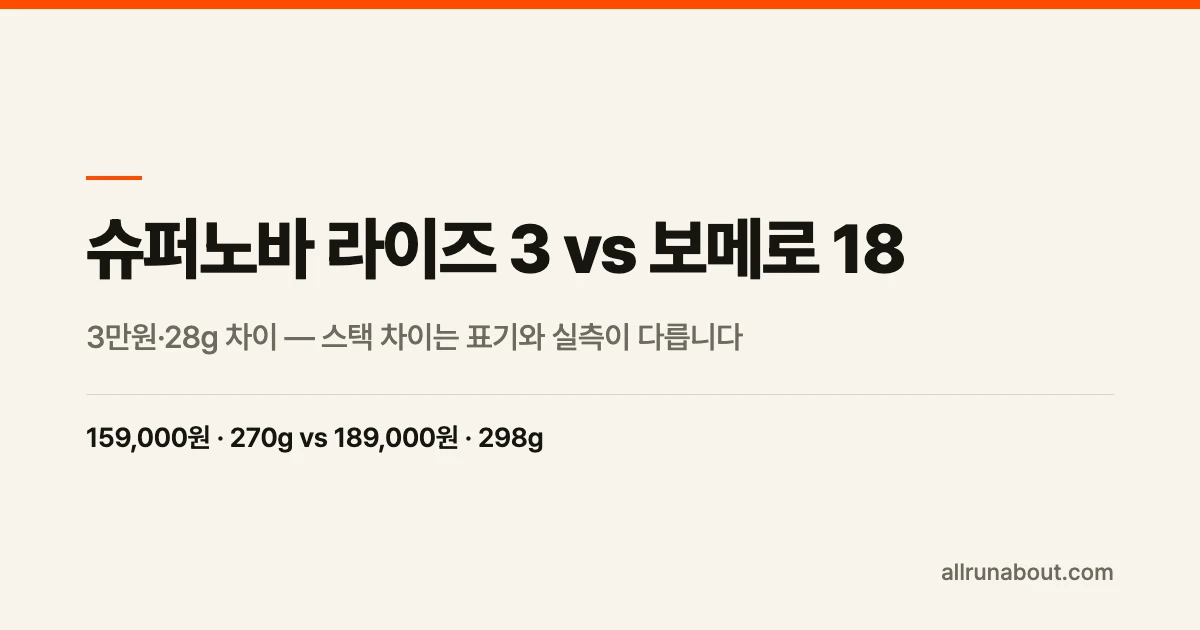
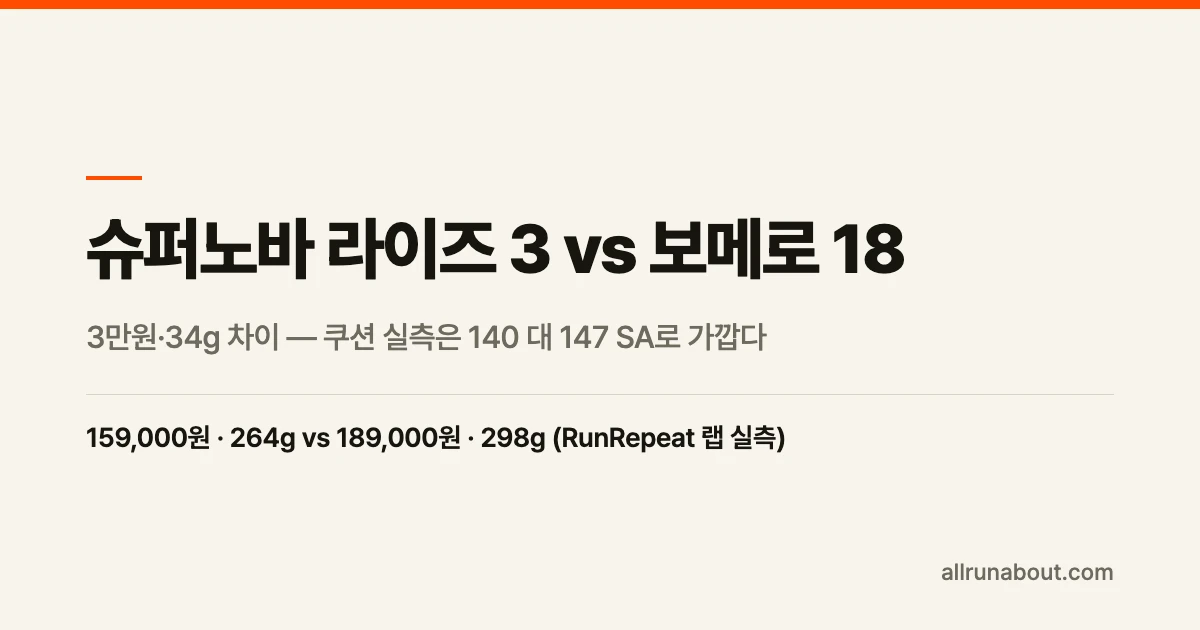
fix(shoes): 슈퍼노바 라이즈 3 RunRepeat 랩 실측 반영 — 토박스 68.4→74.5mm·무게 270→264g·스택 37/29→36/28 + 오류 비교 문장 정정, 비교글 개정
RunRepeat 라이즈 3 페이지(2026-08-06 갱신) 원문 HTML 대조:
- 토박스 74.5mm(평균 73.2) — DB 68.4 는 출처 불명·틀림. 발볼 넓은 러너 비추천/와이드 필수 서술 제거
- 무게 264g(브랜드 남성 표기와 랩 일치), 스택 브랜드 36/28·랩 35.0/27.2, 드롭 7.8
- SA 140/112, 에너지 리턴 58.8/62.8, 폼 28.6AC, 아웃솔 마모 0.8mm, 힐 패딩 내구 1/5
- DB 안의 잘못된 비교 문장 정정: '클리프톤 10(225g)보다 45g 무겁다'(DB 275g), '클리프톤보다 스택 3mm 높다'(DB 44mm), '169,000원'(정가 159,000)
- 비교글: 표기 대 실측 → 같은 랩 실측 나란히 비교로 전면 개정. 결론 일부 뒤집힘(앞발 공간은 라이즈 3가 넓음)
- 국내 다른 글의 옛 값은 이번 범위 밖(별도 승인 대기)

Changed region(s): [[0.185, 0.6635, 0.6783, 0.7238], [0.1233, 0.5127, 0.6475, 0.573]]

diff --git a/src/lib/data/blog/posts/2026-09.ts b/src/lib/data/blog/posts/2026-09.ts
@@ -5,12 +5,13 @@ export const posts_2026_09: BlogPost[] = [
     id: 'adidas-supernova-rise-3-vs-nike-vomero-18-cushion-2026',
     slug: 'adidas-supernova-rise-3-vs-nike-vomero-18-cushion-2026',
     title:
-      '슈퍼노바 라이즈 3 vs 보메로 18 | 3만원·28g 차이 — 스택 차이는 표기와 실측이 다릅니다',
+      '슈퍼노바 라이즈 3 vs 보메로 18 | 3만원·34g 차이 — 쿠션 실측은 140 대 147 SA, 진짜 차이는 뒤꿈치와 드롭',
     description:
-      '아디다스 슈퍼노바 라이즈 3(159,000원)와 나이키 보메로 18(189,000원)은 둘 다 카본 없는 쿠션 데일리입니다. 3만원과 28g 차이가 무엇을 사는지, 공식 스택 표기(37/29mm vs 46/36mm)가 보메로의 랩 실측(43/29mm)과 어떻게 다른지, 발볼과 와이드 옵션까지 정리했습니다.',
+      '아디다스 슈퍼노바 라이즈 3(159,000원)와 나이키 보메로 18(189,000원)을 같은 랩(RunRepeat) 실측으로 나란히 놓았습니다. 뒤꿈치 충격흡수는 140 대 147 SA로 가깝고, 갈리는 건 뒤꿈치 스택(35.0 대 42.5mm)과 드롭(7.8 대 13.9mm), 그리고 토박스(74.5 대 69.6mm)입니다.',
     thumbnail: '/images/blog/adidas-supernova-rise-3-vs-nike-vomero-18-cushion-2026.webp',
     author: '산초 에디터',
     publishedAt: '2026-09-29',
+    updatedAt: '2026-09-29',
     category: 'review' as const,
     readingTime: 8,
     tags: ['슈퍼노바 라이즈 3', '보메로 18', '아디다스 쿠션화', '나이키 쿠션화', '러닝화 비교', '슈퍼노바 라이즈 3 vs 보메로 18', '무릎 보호 러닝화', '발볼 넓은 러닝화'],
@@ -18,31 +19,31 @@ export const posts_2026_09: BlogPost[] = [
       {
         question: '슈퍼노바 라이즈 3와 보메로 18 중 더 푹신한 건 어느 쪽인가요?',
         answer:
-          '사이트 DB의 쿠셔닝 점수는 보메로 18이 10, 라이즈 3가 9입니다. 다만 보메로 18은 랩 실측(충격흡수·에너지 리턴)이 있고 라이즈 3는 같은 기준의 실측이 DB에 없어서, 두 신발의 푹신함을 같은 수치로 직접 비교하지는 못했습니다.',
+          '같은 랩(RunRepeat) 실측으로는 보메로 18이 조금 앞섭니다. 뒤꿈치 충격흡수(SA, 높을수록 많이 흡수)는 보메로 147, 라이즈 3 140이고 앞발은 116 대 112입니다. 두 신발 모두 같은 랩의 평균(뒤꿈치 131 SA)을 웃돌고, 폼의 부드러움(낮을수록 부드러움)은 오히려 라이즈 3가 28.6 AC로 보메로 18의 30.5 AC보다 낮게 나왔습니다. 체감 차이는 폼의 부드러움보다 뒤꿈치 스택 높이(35.0 대 42.5mm)에서 옵니다.',
       },
       {
         question: '발볼이 넓으면 어느 쪽을 골라야 하나요?',
         answer:
-          '한국 공식몰에서 보메로 18은 남녀 와이드가 판매됩니다(2026-09-29 확인). 라이즈 3는 DB 기준 와이드 옵션이 확인되지 않았습니다. 두 신발의 표준 토박스는 DB 기준 68.4mm와 69.6mm로 표준 범위(68~75mm) 하단에 붙어 있어, 발볼이 넓다면 와이드를 고를 수 있는 보메로 18 쪽이 선택지가 넓습니다.',
+          '표준 사이즈 토박스 실측은 라이즈 3가 74.5mm(같은 랩 평균 73.2mm), 보메로 18이 69.6mm입니다. 앞발 공간은 라이즈 3가 5mm 더 넉넉합니다. 다만 보메로 18은 한국 공식몰에서 남녀 와이드가 판매되어(2026-09-29 확인) 표준이 좁아도 대응할 수 있고, 라이즈 3의 와이드 옵션 여부는 확인하지 못했습니다.',
+      },
+      {
+        question: '뒤꿈치로 착지하는데 어느 쪽이 맞나요?',
+        answer:
+          '같은 랩의 착지 유형 분류로는 보메로 18이 뒤꿈치 착지, 라이즈 3가 미드풋·포어풋 착지 신발입니다. 뒤꿈치 스택과 드롭이 높은 보메로 18은 뒤꿈치 착지에서 쿠션량을 더 쓰는 구조이고, 드롭이 7.8mm로 낮은 라이즈 3는 미드풋 착지에 어울립니다.',
       },
       {
         question: '가격 차이 3만원은 값어치가 있나요?',
         answer:
-          'DB 기준 내구성은 둘 다 650km로 잡혀 있어 km당 비용은 라이즈 3 약 245원, 보메로 18 약 291원입니다. 3만원은 스택 표기 9mm 차이와 28g 무게 차이, 와이드 옵션 여부를 사는 값입니다. 내구성 수치는 둘 다 추정 성격이라, 아웃솔 마모를 실측한 자료가 나오기 전까지는 참고용입니다.',
-      },
-      {
-        question: '빠르게 달리기에는 어느 쪽이 나은가요?',
-        answer:
-          '둘 다 카본 플레이트가 없는 쿠션 중심 신발입니다. DB의 반발 점수는 라이즈 3가 7, 보메로 18이 6이고 무게는 라이즈 3가 28g 가볍습니다. 5분/km 이하 페이스를 자주 달린다면 두 신발 모두 최적은 아니며, 이 글의 비교 범위는 편한 페이스의 장거리 훈련입니다.',
+          '3만원(159,000원 대 189,000원)이 사는 것은 뒤꿈치 스택 7.5mm와 높은 드롭, 와이드 옵션의 선택지입니다. 반대로 라이즈 3는 34g 가볍고 폼이 더 부드러우며 에너지 리턴이 앞발 62.8%로 보메로(58.9%)보다 높게 나왔습니다. 내구성은 갈립니다. 아웃솔 마모는 라이즈 3가 0.8mm로 적지만 뒤꿈치 패딩 내구성은 1/5로 약하고, 보메로 18은 5/5입니다.',
       },
     ],
     content: `
 <div class="tldr">
   <span class="tldr-label">3줄 요약</span>
   <ul>
-    <li><strong>159,000원 대 189,000원, 270g 대 298g</strong> — <a href="/shoes/adidas-supernova-rise-3">슈퍼노바 라이즈 3</a>가 3만원 싸고 28g 가볍습니다. 둘 다 카본 플레이트 없는 쿠션 중심 신발입니다</li>
-    <li><strong>공식 스택 표기 차이(힐 9mm, 앞발 7mm)를 그대로 믿으면 안 됩니다</strong> — <a href="/shoes/nike-vomero-18">보메로 18</a>은 공식 46/36mm인데 랩 실측은 43/29mm입니다. 라이즈 3는 실측이 없어 같은 기준으로 비교하지 못합니다</li>
-    <li><strong>발볼이 넓다면 보메로 18</strong> — 한국 공식몰에서 남녀 와이드가 팔립니다. 라이즈 3는 DB 기준 와이드 옵션이 확인되지 않았습니다</li>
+    <li><strong>159,000원 대 189,000원, 실측 무게 264g 대 298g</strong> — <a href="/shoes/adidas-supernova-rise-3">슈퍼노바 라이즈 3</a>가 3만원 싸고 34g 가볍습니다(같은 랩 RunRepeat 실측). 둘 다 카본 플레이트 없는 쿠션 중심 신발입니다</li>
+    <li><strong>쿠션 실측은 생각보다 가깝습니다</strong> — 충격흡수(SA, 높을수록 많이 흡수)가 뒤꿈치 140 대 147, 앞발 112 대 116입니다. 갈리는 건 <a href="/shoes/nike-vomero-18">보메로 18</a>의 뒤꿈치 스택 42.5mm(라이즈 3 35.0mm)와 드롭 13.9mm(라이즈 3 7.8mm)입니다</li>
+    <li><strong>앞발 공간은 라이즈 3가 넓고, 와이드 선택지는 보메로 18이 있습니다</strong> — 표준 토박스가 74.5mm 대 69.6mm이고, 보메로 18은 한국 공식몰에서 남녀 와이드가 팔립니다</li>
   </ul>
 </div>
 
@@ -50,13 +51,13 @@ export const posts_2026_09: BlogPost[] = [
   <span class="callout-icon">🎯</span>
   <div class="callout-body">
     <p class="callout-title">한 줄 결론</p>
-    <p><strong>가격과 무게를 줄이고 싶다면 슈퍼노바 라이즈 3</strong>, <strong>쿠션량이 목적이고 발볼이 넓거나 뒤꿈치 착지라면 보메로 18</strong>입니다. 보메로 18을 다른 맥스쿠션과 비교한 글은 <a href="/blog/asics-megablast-vs-nike-vomero-18-max-cushion-2026">보메로 18 vs 메가블라스트</a>, 라이즈 3의 전작과 비교한 글은 <a href="/blog/adidas-supernova-rise-2-vs-3-comparison">슈퍼노바 라이즈 2 vs 3</a>에 있습니다.</p>
+    <p><strong>가격·무게·앞발 공간, 그리고 미드풋 착지라면 슈퍼노바 라이즈 3</strong>, <strong>뒤꿈치 착지에 뒤꿈치 쿠션량이 목적이거나 와이드가 필요하면 보메로 18</strong>입니다. 보메로 18을 다른 맥스쿠션과 비교한 글은 <a href="/blog/asics-megablast-vs-nike-vomero-18-max-cushion-2026">보메로 18 vs 메가블라스트</a>, 라이즈 3의 전작과 비교한 글은 <a href="/blog/adidas-supernova-rise-2-vs-3-comparison">슈퍼노바 라이즈 2 vs 3</a>에 있습니다.</p>
   </div>
 </div>
 
 <h2>두 켤레 한눈에 보기</h2>
 
-<p>아래 표의 스택·드롭은 <strong>브랜드가 밝힌 표기값</strong>이고, 표기와 랩 실측이 갈리는 부분은 표 밑에서 따로 다룹니다. 두 신발의 무게는 사이즈 기준이 서로 다를 수 있어 차이를 절대값으로 읽으면 안 됩니다.</p>
+<p>아래 표의 무게·스택·드롭·충격흡수·에너지 리턴·토박스는 <strong>두 신발 모두 같은 랩(RunRepeat)이 같은 방법으로 잰 실측값</strong>이라 나란히 읽어도 됩니다. 브랜드 표기값과는 다를 수 있습니다.</p>
 
 <table>
   <thead>
@@ -64,48 +65,49 @@ export const posts_2026_09: BlogPost[] = [
   </thead>
   <tbody>
     <tr><td>한국 정가</td><td><strong>159,000원</strong></td><td>189,000원</td></tr>
-    <tr><td>무게 (DB 표기)</td><td><strong>270g</strong></td><td>298g</td></tr>
-    <tr><td>스택 표기 (힐/앞발)</td><td>37 / 29mm</td><td>46 / 36mm</td></tr>
-    <tr><td>드롭 표기</td><td>8mm</td><td>10mm</td></tr>
-    <tr><td>미드솔</td><td>Dreamstrike+ (전작 대비 20% 부드럽고 탄성)</td><td>ZoomX + ReactX 듀얼</td></tr>
-    <tr><td>카본 플레이트</td><td>없음</td><td>없음</td></tr>
-    <tr><td>쿠셔닝 / 반발 (DB 점수)</td><td>9 / <strong>7</strong></td><td><strong>10</strong> / 6</td></tr>
-    <tr><td>토박스 (표준 사이즈)</td><td>68.4mm (표준 하단)</td><td>69.6mm (표준 하단, RunRepeat 랩)</td></tr>
-    <tr><td>와이드 옵션</td><td>DB 기준 확인 안 됨</td><td><strong>남녀 모두 판매</strong> (한국 공식몰, 2026-09-29 확인)</td></tr>
-    <tr><td>내구성 · km당 비용 (DB 추정)</td><td>650km · <strong>약 245원</strong></td><td>650km · 약 291원</td></tr>
+    <tr><td>무게 (랩 실측)</td><td><strong>264g</strong></td><td>298g</td></tr>
+    <tr><td>스택 실측 (힐/앞발)</td><td>35.0 / 27.2mm</td><td><strong>42.5</strong> / 28.6mm</td></tr>
+    <tr><td>드롭 실측</td><td>7.8mm</td><td><strong>13.9mm</strong></td></tr>
+    <tr><td>충격흡수 (힐/앞발, SA)</td><td>140 / 112</td><td><strong>147 / 116</strong></td></tr>
+    <tr><td>에너지 리턴 (힐/앞발)</td><td>58.8% / <strong>62.8%</strong></td><td>56.9% / 58.9%</td></tr>
+    <tr><td>폼 부드러움 (AC, 낮을수록 부드러움)</td><td><strong>28.6</strong></td><td>30.5</td></tr>
+    <tr><td>토박스 너비 (표준 사이즈)</td><td><strong>74.5mm</strong></td><td>69.6mm</td></tr>
+    <tr><td>와이드 옵션 (한국 공식몰)</td><td>확인 안 됨</td><td><strong>남녀 모두 판매</strong></td></tr>
+    <tr><td>아웃솔 마모 / 뒤꿈치 패딩 내구성</td><td><strong>0.8mm</strong> / 1점 (5점 만점)</td><td>1.1mm / <strong>5점</strong></td></tr>
+    <tr><td>착지 유형 (랩 분류)</td><td>미드·포어풋</td><td>뒤꿈치</td></tr>
   </tbody>
 </table>
 
-<p><small>데이터: 사이트 신발 DB(한국 공식몰 정가 기준), 보메로 18 토박스는 RunRepeat 랩. 내구성 650km는 소재 특성으로 잡은 추정값으로, 아웃솔 마모를 실측한 수치가 아닙니다.</small></p>
+<p><small>데이터: RunRepeat 랩 실측(라이즈 3 페이지 2026-08-06 갱신 · 보메로 18 랩 페이지), 한국 정가는 사이트 신발 DB, 와이드는 나이키 코리아 공식몰(2026-09-29 확인). 무게는 브랜드 표기로는 남성 기준 라이즈 3 264g, 보메로 18 325g으로 더 벌어지지만, 랩 실측은 두 신발의 시험 사이즈가 공개되지 않아 표기와 직접 대조하지 않았습니다.</small></p>
 
-<h2>슈퍼노바 라이즈 3 — 3만원 싸고 가벼운 쿠션 데일리</h2>
+<h2>슈퍼노바 라이즈 3 — 3만원 싸고 가볍고 앞발이 넓은 쿠션 데일리</h2>
 
-<p>라이즈 3는 전작 대비 힐 스택이 3mm, 앞발이 5mm 늘었고(37/29mm) Dreamstrike+ 폼이 전작보다 20% 부드럽고 탄성이 좋아졌다고 아디다스가 밝힌 모델입니다. 부상 적합성은 DB에서 족저근막·아킬레스·무릎·정강이 네 항목이 모두 최상 등급입니다. 정가가 보메로보다 3만원 낮고 km당 비용도 약 245원으로 더 낮게 잡힙니다.</p>
+<p>라이즈 3는 전작 대비 랩 실측 스택이 힐 33.5에서 35.0mm(+1.5mm), 앞발 24.0에서 27.2mm(+3.2mm)로 늘었고, 충격흡수는 힐 127에서 140 SA, 앞발 96에서 112 SA로 올랐습니다. 반대로 에너지 리턴은 앞발이 전작 69.5%에서 62.8%로 떨어졌습니다(RunRepeat). 토박스는 74.5mm로 같은 랩 평균(73.2mm)보다 넓고, RunRepeat는 이 신발의 장점으로 부피가 큰 발에도 여유 있는 핏을 꼽았습니다.</p>
 
-<p>약점은 발볼입니다. DB 표기는 표준 토박스(68.4mm)지만 중족부가 좁은 편이라고 적혀 있고, 와이드 옵션은 확인되지 않았습니다. 발볼 넓은 러너에게는 사이즈를 올려 길이로 해결해야 하는 구조일 수 있어 조심스럽습니다.</p>
+<p>약점은 세 가지입니다. 사이즈가 RunRepeat 집계에서 <strong>"약간 작게 나옴"</strong>(82표)이라 길이가 애매하면 반 사이즈 크게 시착해야 하고, 뒤꿈치 패딩 내구성이 5점 만점에 1점으로 약하며, 한국 공식몰의 와이드 옵션 여부는 확인하지 못했습니다.</p>
 
-<p><strong>✅ 이런 분께</strong> — 5~7분/km 편한 페이스로 달리며 가격을 신경 쓰는 러너, 무릎·발바닥 부담을 줄이고 싶지만 무게가 너무 무거운 것은 싫은 분.</p>
+<p><strong>✅ 이런 분께</strong> — 미드풋·포어풋 착지로 편한 페이스의 장거리를 달리는 러너, 예산과 무게를 줄이고 싶은 분, 앞발 공간이 넉넉한 신발을 찾는 분.</p>
 
-<h2>보메로 18 — 쿠션량과 와이드 선택지가 넓은 맥스 쿠션</h2>
+<h2>보메로 18 — 뒤꿈치 쿠션량과 와이드 선택지가 넓은 맥스 쿠션</h2>
 
-<p>보메로 18은 ZoomX와 ReactX를 겹친 듀얼 폼으로, 공식 표기 스택이 힐 46mm·앞발 36mm입니다. DB의 쿠셔닝 점수는 10점이고 족저근막·아킬레스·정강이가 최상, 무릎은 그다음 등급입니다. 가장 큰 차이는 발볼 대응입니다. 한국 공식몰에서 남성(IF0514)·여성(IF0515) 와이드가 판매되고 있어, 표준 토박스가 69.6mm로 하단에 있어도 넓은 발의 선택지가 있습니다.</p>
+<p>보메로 18은 랩 실측 뒤꿈치 스택이 42.5mm로 라이즈 3보다 7.5mm 높고, 드롭이 13.9mm로 6.1mm 더 큽니다. 충격흡수는 뒤꿈치 147 SA로 같은 랩 평균(131 SA)을 크게 웃돕니다. RunRepeat는 이 신발을 뒤꿈치 착지 신발로 분류합니다. 뒤꿈치 패딩 내구성이 5점 만점에 5점인 것도 라이즈 3와 갈리는 지점입니다.</p>
 
-<p>약점은 무게와 드롭입니다. 298g으로 라이즈 3보다 무겁고 랩 드롭이 14mm로 높아 미드풋·포어풋 착지 러너에게는 앞발이 낮게 느껴질 수 있습니다. 5분/km 이하 페이스에는 맞지 않는 설계입니다.</p>
+<p>약점은 무게와 앞발 공간입니다. 298g으로 라이즈 3보다 34g 무겁고 토박스는 69.6mm로 같은 랩 평균(73.2mm)보다 좁습니다. 대신 한국 공식몰에서 남성(IF0514)·여성(IF0515) 와이드가 판매되고 있어 표준 토박스가 좁은 러너는 와이드로 대응할 수 있습니다.</p>
 
-<p><strong>✅ 이런 분께</strong> — 뒤꿈치 착지로 편한 페이스의 장거리를 달리는 러너, 쿠션이 최우선이고 발볼이 넓어 와이드가 필요한 분.</p>
+<p><strong>✅ 이런 분께</strong> — 뒤꿈치로 착지하며 뒤꿈치 쿠션량이 최우선인 러너, 발이 보통~좁은 편이거나 와이드가 필요한 분.</p>
 
-<h2>스택 9mm 차이는 실측에서 달라집니다</h2>
+<h2>표기 점수와 실측이 말하는 것</h2>
 
-<p>표에서 힐 스택은 37mm 대 46mm, 앞발은 29mm 대 36mm로 큰 차이가 나 보이지만, <strong>브랜드 표기와 랩 실측은 다른 값입니다</strong>. 보메로 18은 랩 실측(RunRepeat)이 힐 43mm·앞발 29mm, 드롭 14mm로 공식 표기보다 앞발은 7mm, 힐은 3mm 낮게 나옵니다. 라이즈 3는 DB에 같은 기준의 실측이 없습니다.</p>
-
-<p>그래서 이 글은 두 신발의 스택 차이를 몇 mm라고 단정하지 않습니다. 보메로의 실측 앞발 29mm는 라이즈 3의 표기 앞발 29mm와 같은 값이지만, 서로 다른 잣대라 같다고 읽으면 안 됩니다. 다른 잣대를 같은 표에 넣어 놓고 결론을 내는 것이 스택 비교에서 가장 흔한 실수라, 라이즈 3의 랩 실측이 나오면 이 부분을 갱신하겠습니다(추정: 앞발 두께 차이는 표기 차이보다 작을 가능성이 있음).</p>
+<p>사이트 DB의 쿠셔닝 점수는 보메로 18이 10점, 라이즈 3가 9점이라 한 칸 차이로 보이지만, 실측에서 뒤꿈치 충격흡수는 147 대 140 SA로 약 5%, 앞발은 116 대 112 SA로 약 4% 차이입니다. 폼 자체는 라이즈 3가 오히려 더 부드럽고(28.6 대 30.5 AC) 에너지 리턴도 높습니다. 결국 두 신발의 쿠션 성격은 <strong>폼의 질이 아니라 뒤꿈치 스택 높이와 드롭</strong>에서 갈립니다. 앞발 스택은 27.2mm 대 28.6mm로 1.4mm 차이뿐입니다.</p>
 
 <h2>내게 맞는 건?</h2>
 
 <ul>
-  <li><strong>예산이 우선이고 무게도 신경 쓰인다</strong> → 슈퍼노바 라이즈 3 (3만원·28g 차이)</li>
-  <li><strong>발볼이 넓다</strong> → 보메로 18 와이드 (남녀 모두 판매)</li>
-  <li><strong>뒤꿈치 착지로 쿠션량이 최우선</strong> → 보메로 18 (쿠셔닝 10점)</li>
+  <li><strong>예산이 우선이고 무게도 신경 쓰인다</strong> → 슈퍼노바 라이즈 3 (3만원·34g 차이)</li>
+  <li><strong>뒤꿈치 착지에 쿠션량 최우선</strong> → 보메로 18 (뒤꿈치 스택 42.5mm)</li>
+  <li><strong>미드풋·포어풋 착지, 낮은 드롭</strong> → 슈퍼노바 라이즈 3 (드롭 7.8mm)</li>
+  <li><strong>앞발 공간이 넉넉해야 한다</strong> → 슈퍼노바 라이즈 3 (토박스 74.5mm)</li>
+  <li><strong>표준이 좁아 와이드가 필요하다</strong> → 보메로 18 와이드 (남녀 모두 판매)</li>
   <li><strong>다른 대안도 보고 싶다</strong> → <a href="/shoes/hoka-clifton-10">호카 클리프톤 10</a>, <a href="/shoes/asics-gel-nimbus-28">아식스 젤 님버스 28</a>, <a href="/shoes/hoka-bondi-9">호카 본디 9</a></li>
 </ul>
 
@@ -113,20 +115,20 @@ export const posts_2026_09: BlogPost[] = [
   <span class="callout-icon">⚠</span>
   <div class="callout-body">
     <p class="callout-title">이 글이 확인하지 못한 것</p>
-    <p>라이즈 3의 충격흡수·에너지 리턴 랩 실측은 사이트 DB에 없고, 무게의 사이즈 기준도 공식이 밝힌 값이 아닙니다. 라이즈 3의 와이드 옵션 여부는 구매 전에 한국 공식몰에서 직접 확인하세요.</p>
+    <p>라이즈 3의 한국 공식몰 와이드 옵션 여부와 두 신발의 랩 시험 사이즈는 확인하지 못했습니다. 내구성은 랩의 아웃솔 마모·패딩 측정치이고, 실제 교체 시점(km)을 뜻하지 않습니다.</p>
   </div>
 </div>
 
 <h2>자주 묻는 질문</h2>
 
 <div class="faq">
-  <div class="faq-item"><p class="faq-q">슈퍼노바 라이즈 3와 보메로 18 중 더 푹신한 건 어느 쪽인가요?</p><p class="faq-a">사이트 DB의 쿠셔닝 점수는 보메로 18이 10, 라이즈 3가 9입니다. 다만 라이즈 3는 같은 기준의 랩 실측이 없어 두 신발의 푹신함을 같은 수치로 직접 비교하지는 못했습니다.</p></div>
-  <div class="faq-item"><p class="faq-q">발볼이 넓으면 어느 쪽을 골라야 하나요?</p><p class="faq-a">한국 공식몰에서 보메로 18은 남녀 와이드가 판매됩니다(2026-09-29 확인). 라이즈 3는 DB 기준 와이드 옵션이 확인되지 않았습니다.</p></div>
-  <div class="faq-item"><p class="faq-q">가격 차이 3만원은 값어치가 있나요?</p><p class="faq-a">내구성이 DB 추정으로 둘 다 650km라면 km당 비용은 라이즈 3 약 245원, 보메로 18 약 291원입니다. 3만원은 쿠션량과 와이드 옵션의 값이고, 내구성은 아웃솔 실측이 나오기 전까지 참고용입니다.</p></div>
-  <div class="faq-item"><p class="faq-q">빠르게 달리기에는 어느 쪽이 나은가요?</p><p class="faq-a">둘 다 카본 플레이트가 없는 쿠션 중심 신발입니다. DB의 반발 점수와 무게는 라이즈 3가 앞서지만, 5분/km 이하 페이스에는 두 신발 모두 최적이 아닙니다.</p></div>
+  <div class="faq-item"><p class="faq-q">슈퍼노바 라이즈 3와 보메로 18 중 더 푹신한 건 어느 쪽인가요?</p><p class="faq-a">같은 랩 실측으로는 보메로 18이 조금 앞섭니다. 뒤꿈치 충격흡수가 147 대 140 SA, 앞발이 116 대 112 SA입니다. 폼의 부드러움은 오히려 라이즈 3(28.6 AC)가 보메로 18(30.5 AC)보다 낮게 나왔고, 체감 차이는 뒤꿈치 스택 높이(35.0 대 42.5mm)에서 옵니다.</p></div>
+  <div class="faq-item"><p class="faq-q">발볼이 넓으면 어느 쪽을 골라야 하나요?</p><p class="faq-a">표준 토박스 실측은 라이즈 3가 74.5mm, 보메로 18이 69.6mm로 라이즈 3가 5mm 넉넉합니다. 다만 보메로 18은 한국 공식몰에서 남녀 와이드가 판매되고(2026-09-29 확인), 라이즈 3의 와이드 옵션은 확인하지 못했습니다.</p></div>
+  <div class="faq-item"><p class="faq-q">뒤꿈치로 착지하는데 어느 쪽이 맞나요?</p><p class="faq-a">같은 랩의 분류로 보메로 18이 뒤꿈치 착지, 라이즈 3가 미드·포어풋 착지 신발입니다. 뒤꿈치 스택과 드롭이 높은 보메로 18이 뒤꿈치 착지에서 쿠션량을 더 씁니다.</p></div>
+  <div class="faq-item"><p class="faq-q">가격 차이 3만원은 값어치가 있나요?</p><p class="faq-a">3만원은 뒤꿈치 스택 7.5mm와 높은 드롭, 와이드 선택지, 5점 만점의 뒤꿈치 패딩 내구성을 사는 값입니다. 라이즈 3는 34g 가볍고 에너지 리턴이 앞발 62.8%로 더 높지만 뒤꿈치 패딩 내구성은 1점으로 약합니다.</p></div>
 </div>
 
-<p><small>출처: 사이트 신발 DB(한국 공식몰 정가) · RunRepeat 랩 데이터(보메로 18 토박스·스택·드롭) · 나이키 코리아 공식몰(보메로 18 와이드, 2026-09-29 확인) · 아디다스 표기(라이즈 3 스택·폼). 작성 2026년 9월 29일.</small></p>
+<p><small>출처: RunRepeat 랩 데이터(라이즈 3 · 보메로 18, 무게·스택·드롭·충격흡수·에너지 리턴·폼 부드러움·토박스·내구성·착지 유형) · 사이즈 평가는 RunRepeat 집계(82표) · 사이트 신발 DB(한국 정가) · 나이키 코리아 공식몰(보메로 18 와이드, 2026-09-29 확인). 작성 2026년 9월 29일 · 랩 실측 반영 개정 2026년 9월 29일.</small></p>
 `,
   },
   {
@@ -3553,7 +3555,7 @@ export const posts_2026_09: BlogPost[] = [
     <tr><td><a href="/shoes/brooks-ghost-17">브룩스 고스트 17</a></td><td>169,000원</td><td>289g</td><td>약 211원</td><td>표준</td><td>있음</td></tr>
     <tr><td><a href="/shoes/brooks-ghost-18">브룩스 고스트 18</a></td><td>169,000원</td><td>289g</td><td>약 211원</td><td>표준</td><td>있음</td></tr>
     <tr><td><a href="/shoes/mizuno-wave-rider-29">미즈노 웨이브 라이더 29</a></td><td>169,000원</td><td>258g</td><td>약 211원</td><td>표준</td><td>있음</td></tr>
-    <tr><td><a href="/shoes/adidas-supernova-rise-3">아디다스 슈퍼노바 라이즈 3</a></td><td>159,000원</td><td>270g</td><td>약 245원</td><td>표준</td><td>없음</td></tr>
+    <tr><td><a href="/shoes/adidas-supernova-rise-3">아디다스 슈퍼노바 라이즈 3</a></td><td>159,000원</td><td>264g</td><td>약 245원</td><td>표준</td><td>없음</td></tr>
     <tr><td><a href="/shoes/adidas-supernova-rise-2">아디다스 슈퍼노바 라이즈 2</a></td><td>149,000원</td><td>257g</td><td>약 248원</td><td>넓음</td><td>있음</td></tr>
     <tr><td><a href="/shoes/saucony-ride-18">사코니 라이드 18</a></td><td>159,000원</td><td>255g</td><td>약 265원</td><td>표준</td><td>있음</td></tr>
     <tr><td><a href="/shoes/saucony-guide-18">사코니 가이드 18</a> <span style="color:#0284c7;">안정화</span></td><td>159,000원</td><td>272g</td><td>약 265원</td><td>표준</td><td>있음</td></tr>

diff --git a/src/lib/data/shoes/adidas/adidas-supernova-rise-3.ts b/src/lib/data/shoes/adidas/adidas-supernova-rise-3.ts
@@ -10,12 +10,12 @@ export const shoe: Shoe = {
   category: '쿠션화',
   rating: 5,
   price: 159000,
-  description: 'Dreamstrike+ 폼이 20% 더 부드럽고 탄력 있게 업그레이드된 Adidas의 프리미엄 쿠션화. 힐 37mm, 포어풋 29mm의 넉넉한 스택으로 장거리 러너와 무릎 보호가 필요한 러너에게 최적.',
-  oneliner: 'Dreamstrike+ 20% 업그레이드, 37mm 스택의 쿠션 중심 데일리',
-  editorComment: '전작보다 힐 스택이 3mm, 포어풋은 5mm 증가하며 Dreamstrike+ 폼이 20% 부드러워진 것이 가장 큰 변화입니다. 270g 무게는 Hoka Clifton 10(225g)보다 45g 무겁지만 9/10 쿠셔닝 점수로 장거리에서 강점을 보입니다. 토박스 너비가 68.4mm(standard)로 발볼 넓은 러너는 와이드 버전이 필수이며, 와이드 옵션이 없는 점이 아쉽습니다. 650km 내구성으로 km당 약 245원이며, 클리프톤보다 2만원 저렴하면서 스택이 3mm 더 높아 무릎 보호에 유리합니다.\n\n사이즈·구매 가이드: 토박스가 standard 폭(68.4mm)이고 와이드 옵션이 없어, 발볼 넓은 러너는 반드시 매장에서 시착 후 구매하세요. 정가 159,000원에 내구성 650km 기준 km당 약 245원으로 쿠션화 중 최고 가성비입니다. 와이드 옵션이 필요하다면 클리프톤 10, 더 높은 반발력을 원하면 노바블라스트 5가 대안입니다.',
+  description: 'Dreamstrike+ 폼이 20% 더 부드럽고 탄력 있게 업그레이드된 Adidas의 프리미엄 쿠션화. 브랜드 표기 힐 36mm·포어풋 28mm(RunRepeat 랩 실측 35.0/27.2mm)의 스택으로 장거리 러너와 무릎 보호가 필요한 러너에게 최적.',
+  oneliner: 'Dreamstrike+ 20% 업그레이드, 36mm 스택의 쿠션 중심 데일리',
+  editorComment: '전작 대비 랩 실측 스택이 힐 +1.5mm(33.5→35.0), 앞발 +3.2mm(24.0→27.2) 늘고 Dreamstrike+ 폼이 20% 부드러워진 것이 가장 큰 변화입니다(RunRepeat). 무게는 랩 실측 264g이고, 충격흡수는 힐 140 SA·앞발 112 SA로 전작(127/96 SA)보다 높지만 에너지 리턴은 힐 58.8%·앞발 62.8%로 전작 앞발 69.5%보다 낮아졌습니다. 토박스는 RunRepeat 랩 74.5mm(평균 73.2mm)로 표준 범위 상단이라 넉넉한 편이고, RunRepeat 집계의 사이즈 평가는 "약간 작게 나옴"(82표)입니다. 와이드 옵션 여부는 확인하지 못했습니다. 650km 내구성(추정) 기준 km당 약 245원입니다.\n\n사이즈·구매 가이드: 정가 159,000원으로 클리프톤 10(199,000원)보다 4만원 낮습니다. 길이가 애매하면 반 사이즈 크게 시착해 보고, 반발이 더 필요하다면 노바블라스트 5가 대안입니다.',
   tags: ['쿠션화', '장거리', '입문화', '무릎 보호'],
   specs: {
-    weight: 270,
+    weight: 264,
     cushioning: 9,
     responsiveness: 7,
     stability: 7,
@@ -23,7 +23,7 @@ export const shoe: Shoe = {
     durability: 650,
   },
   biomechanics: {
-    stackHeight: { heel: 37, forefoot: 29 },
+    stackHeight: { heel: 36, forefoot: 28 },
     drop: 8,
     carbonPlate: false,
     plateType: null,
@@ -45,9 +45,9 @@ export const shoe: Shoe = {
   },
   targetUsers: {
     recommended: ['장거리 러너', '쿠션 중시', '무릎/관절 보호', '데일리 러닝', '편안함 추구'],
-    notRecommended: ['스피드 러닝', '안정성 필요', '발볼 넓은 러너', '과내전'],
+    notRecommended: ['스피드 러닝', '안정성 필요', '과내전'],
   },
-  features: ['Dreamstrike+ 20% 업그레이드', '37mm 힐 스택', 'PRIMEWEAVE 어퍼', '거셋 텅', '풀 아웃솔 커버리지'],
+  features: ['Dreamstrike+ 20% 업그레이드', '36mm 힐 스택', 'PRIMEWEAVE 어퍼', '거셋 텅', '풀 아웃솔 커버리지'],
   priceAnalysis: {
     msrp: 159000,
     streetPrice: 145000,
@@ -57,15 +57,15 @@ export const shoe: Shoe = {
     alternatives: ['hoka-clifton-10', 'asics-novablast-5', 'nike-pegasus-premium'],
   },
   detailedSpecs: {
-    weight: '270g (US 9 기준)',
-    stackHeight: '힐 37mm / 포어풋 29mm (v2 대비 +3mm/+5mm)',
-    drop: '8mm',
+    weight: '264g (남성 · 브랜드 표기와 RunRepeat 랩 실측 일치)',
+    stackHeight: '힐 36mm / 포어풋 28mm (브랜드 표기) · 힐 35.0mm / 포어풋 27.2mm (RunRepeat 랩) · 전작 대비 랩 실측 +1.5mm / +3.2mm',
+    drop: '8mm (브랜드 표기) · 7.8mm (RunRepeat 랩)',
     midsole: 'Dreamstrike+ (Supercritical EVA, 20% softer/bouncier)',
     plate: '없음',
     outsole: 'Adiwear 러버 (풀 커버리지)',
     upper: 'PRIMEWEAVE 소프트 메쉬',
-    width: '표준 (중족부 좁음)',
-    durability: '600-650km',
+    width: '표준 상단 — RunRepeat 랩 토박스 74.5mm(평균 73.2mm), 사이즈는 약간 작게 나옴(82표)',
+    durability: '600-650km (추정) · RunRepeat 랩 아웃솔 마모 0.8mm(평균 1.1mm) · 힐 패딩 내구성 1/5(약함)',
     price: '₩159,000 (MSRP)',
     costPerKm: '약 ₩245/km (650km 기준)',
     footType: '중립 발 (안정성 필요시 비추)',
@@ -75,28 +75,28 @@ export const shoe: Shoe = {
     {
       userType: '에디터 분석',
       rating: 88,
-      text: 'Rise 3는 전작 대비 힐 +3mm, 포어풋 +5mm 스택 증가와 함께 Dreamstrike+ 폼이 20% 더 부드럽고 탄력있게 업그레이드되었습니다. PRIMEWEAVE 어퍼는 극도로 플러시하고 편안하며, 완전 거셋 텅과 구조화된 힐 카운터로 탁월한 풋홀드를 제공합니다. 아웃솔은 거의 전체 커버리지로 뛰어난 그립과 내구성을 자랑합니다. 8mm 드롭임에도 미드풋 착지를 유도하는 특이한 설계가 인상적입니다. 다만 중족부 핏이 좁아 발볼 넓은 러너는 와이드 버전 출시를 기다려야 하고, 쿠셔닝 대비 다소 무거운 편(270g)입니다. 안정성은 전혀 없어 완전 중립 러너만 추천합니다. 37mm 힐 스택이 무릎 보호에 좋고, 와이드 옵션은 없지만 발볼 넓은 한국 러너도 토박스 자체는 넓어 기본 핏으로 가능할 수 있습니다. 650km 기준 km당 약 245원 가성비는 쿠션화 중 최상위입니다.',
+      text: 'Rise 3는 전작 대비 랩 실측 힐 +1.5mm, 포어풋 +3.2mm 스택 증가와 함께 Dreamstrike+ 폼이 20% 더 부드럽고 탄력있게 업그레이드되었습니다. PRIMEWEAVE 어퍼는 극도로 플러시하고 편안하며, 완전 거셋 텅과 구조화된 힐 카운터로 탁월한 풋홀드를 제공합니다. 아웃솔은 거의 전체 커버리지로 뛰어난 그립과 내구성을 자랑합니다. 8mm 드롭임에도 미드풋 착지를 유도하는 특이한 설계가 인상적입니다. 무게는 랩 실측 264g입니다. 안정성은 전혀 없어 완전 중립 러너만 추천합니다. 힐 36mm 스택이 무릎 보호에 좋고, 토박스는 RunRepeat 랩 74.5mm로 표준 상단이라 발볼이 넓은 한국 러너도 기본 핏이 맞을 가능성이 있습니다. 와이드 옵션 여부는 확인하지 못했습니다. 650km 기준 km당 약 245원 가성비는 쿠션화 중 최상위입니다.',
     },
     {
         userType: '예상 적합 — 월 150km 이상 장거리 위주',
-        text: '주행거리를 많이 쌓는 장거리 위주 러너에게 맞는 데일리 쿠션화입니다. 힐 37mm 스택에 Dreamstrike+ 폼으로, 전작 Rise 2에서 30km 이후 쿠션이 주저앉던 구간이 개선된 것이 세대 차이의 핵심입니다. PRIMEWEAVE 어퍼라 통기성이 좋아 여름철 장시간 착용에도 유리합니다. 270g으로 무거운 편이라 속도 훈련에는 불리하지만, 충격 흡수를 우선하는 용도에서는 단점이 덜합니다. 내구성 650km 기준 km당 약 245원으로 운용 비용이 낮습니다. 와이드 옵션이 없고 아치 지지도 강한 편이 아니라, 평발 성향이 뚜렷하면 안정화 계열을 검토하세요.',
+        text: '주행거리를 많이 쌓는 장거리 위주 러너에게 맞는 데일리 쿠션화입니다. 힐 36mm 스택에 Dreamstrike+ 폼으로, 전작 Rise 2에서 30km 이후 쿠션이 주저앉던 구간이 개선된 것이 세대 차이의 핵심입니다. PRIMEWEAVE 어퍼라 통기성이 좋아 여름철 장시간 착용에도 유리합니다. 264g으로 가벼운 편은 아니라 속도 훈련에는 불리하지만, 충격 흡수를 우선하는 용도에서는 단점이 덜합니다. 내구성 650km 기준 km당 약 245원으로 운용 비용이 낮습니다. 아치 지지가 강한 편이 아니라, 평발 성향이 뚜렷하면 안정화 계열을 검토하세요.',
       },
     {
         userType: '예상 적합 — 휴식 후 복귀 단계의 저강도 러닝',
-        text: '쉬었다가 다시 거리를 쌓기 시작하는 단계처럼, 충격 완화를 우선하며 저강도로 달리는 용도에 맞습니다. 힐 37mm 스택에 8mm 드롭이라 뒤꿈치 착지에서 부담이 적습니다. 같은 목적으로 자주 비교되는 클리프톤 10과 견주면 가격이 2만원가량 낮으면서 힐 스택은 3mm 높아, 쿠션량 기준으로는 비용 효율이 좋은 선택입니다. 270g으로 무거운 편이라 속도 훈련에는 맞지 않습니다. 내구성 650km 기준 km당 약 245원이고, 와이드 옵션이 없어 발볼이 넓다면 시착이 필요합니다. 부상 이력이 있다면 신발보다 복귀 강도·주행거리 계획을 전문의와 정하는 것이 우선입니다.',
+        text: '쉬었다가 다시 거리를 쌓기 시작하는 단계처럼, 충격 완화를 우선하며 저강도로 달리는 용도에 맞습니다. 힐 36mm 스택에 8mm 드롭이라 뒤꿈치 착지에서 부담이 적습니다. 같은 목적으로 자주 비교되는 클리프톤 10(정가 199,000원, 힐 스택 표기 44mm)과 견주면 가격은 4만원 낮은 대신 스택도 낮아, 쿠션량이 최우선이면 클리프톤이 더 높습니다. 264g으로 가벼운 편은 아니라 속도 훈련에는 맞지 않습니다. 내구성 650km(추정) 기준 km당 약 245원입니다. 부상 이력이 있다면 신발보다 복귀 강도·주행거리 계획을 전문의와 정하는 것이 우선입니다.',
       },
     {
-        userType: '적합성 경계 — 토박스는 여유, 중족부가 좁다',
-        text: '핏을 부위별로 나눠 봐야 하는 모델입니다. 토박스 자체는 여유가 있지만 중족부가 좁아, 발볼이 4E급이면 최상단 끈 구멍을 비우고 묶어야 편한 경우가 생깁니다. 와이드 옵션이 없어 이 부분을 사이즈로 해결하기도 어렵습니다. 쿠션 성능은 힐 37mm 스택의 Dreamstrike+로 장거리 후반까지 유지되는 수준이고, 270g에 내구성 650km 기준 km당 약 245원으로 LSD 전용 쿠션화 중 운용 비용이 낮습니다. 발볼이 넓다면 시착이 사실상 필수입니다.',
+        userType: '적합성 경계 — 토박스는 표준 상단, 사이즈는 약간 작게',
+        text: '핏을 부위별로 나눠 봐야 하는 모델입니다. RunRepeat 랩 토박스는 74.5mm로 평균(73.2mm)보다 넓은 표준 상단이라 앞발 공간은 여유 있는 편입니다. 다만 RunRepeat 집계의 사이즈 평가가 "약간 작게 나옴"(82표)이라, 길이가 애매하면 반 사이즈 크게 시착해 보는 편이 안전합니다. 쿠션 성능은 힐 36mm 스택의 Dreamstrike+로 장거리 후반까지 유지되는 수준이고, 264g에 내구성 650km(추정) 기준 km당 약 245원으로 LSD 전용 쿠션화 중 운용 비용이 낮습니다. 발볼이 넓다면 시착을 권합니다.',
       },
     {
         userType: '모델 선택 — 클리프톤 10 대비 가격과 내구성',
-        text: '같은 쿠션화군에서 클리프톤 계열과 비교하면 가격과 내구성에서 앞섭니다. 169,000원(세일가 14만원대)으로 클리프톤(19만원)보다 낮고, 내구성 650km 기준 km당 약 245원입니다. 500km를 넘겨도 아웃솔 마모와 쿠션 저하가 완만한 편이라 공칭 수치에 근접하게 쓸 수 있습니다. 다만 270g으로 무거워 페이스를 올리는 훈련에는 맞지 않습니다. 힐 37mm 스택이고, 와이드 옵션이 없어 발볼이 넓다면 시착이 필요합니다.',
+        text: '같은 쿠션화군에서 클리프톤 계열과 비교하면 가격과 내구성에서 앞섭니다. 정가 159,000원으로 클리프톤 10(199,000원)보다 4만원 낮고, 내구성 650km 기준 km당 약 245원입니다. RunRepeat 랩 아웃솔 마모는 0.8mm(평균 1.1mm)로 적게 나왔지만 힐 패딩 내구성은 1/5로 약합니다. 다만 264g으로 가볍지 않아 페이스를 올리는 훈련에는 맞지 않습니다. 힐 36mm 스택입니다.',
       },
   ],
   similarShoes: ['hoka-clifton-10', 'asics-novablast-5', 'nike-pegasus-premium'],
   relatedPosts: [
-    { slug: 'adidas-supernova-rise-3-vs-nike-vomero-18-cushion-2026', title: '슈퍼노바 라이즈 3 vs 보메로 18 — 3만원·28g 차이, 스택은 표기와 실측이 다르다' },
+    { slug: 'adidas-supernova-rise-3-vs-nike-vomero-18-cushion-2026', title: '슈퍼노바 라이즈 3 vs 보메로 18 — 3만원·34g 차이, 쿠션 실측은 140 대 147 SA' },
   ],
   purchaseLinks: [{ store: '네이버', url: 'https://naver.me/x8krNTuj' }, { store: '쿠팡', url: 'https://link.coupang.com/a/g5Ypt08AlU' }],
 };

diff --git a/scripts/thumbnail/copy.ts b/scripts/thumbnail/copy.ts
@@ -38,11 +38,11 @@ export function deriveCopy(post: { title: string; category: string }): ThumbCopy
  * Task 3·4에서 육안 검수하며 채운다. 비어 있어도 파이프라인은 돈다.
  */
 export const OVERRIDES: Record<string, Partial<ThumbCopy>> = {
-  // 출처: 사이트 신발 DB(한국 공식몰 정가·DB 표기 무게) — 라이즈 3 159,000원·270g, 보메로 18 189,000원·298g.
+  // 출처: 사이트 신발 DB(한국 공식몰 정가) · RunRepeat 랩 실측 무게(2026-09-29 원문 확인) — 라이즈 3 159,000원·264g, 보메로 18 189,000원·298g.
   'adidas-supernova-rise-3-vs-nike-vomero-18-cushion-2026': {
     title: '슈퍼노바 라이즈 3 vs 보메로 18',
-    subtitle: '3만원·28g 차이 — 스택 차이는 표기와 실측이 다릅니다',
-    data: '159,000원 · 270g  vs  189,000원 · 298g',
+    subtitle: '3만원·34g 차이 — 쿠션 실측은 140 대 147 SA로 가깝다',
+    data: '159,000원 · 264g  vs  189,000원 · 298g (RunRepeat 랩 실측)',
   },
   // 출처: 한경서울마라톤 공식 홈페이지 메인·공지(2026-09-29 확인) — 10/5 여의도공원,
   // 접수 8/28 마감, 하프 8만·10K 7만·5K 6만원(5K 기록칩 없음).

diff --git a/src/lib/data/shoes/nike/nike-vomero-18.ts b/src/lib/data/shoes/nike/nike-vomero-18.ts
@@ -96,7 +96,7 @@ export const shoe: Shoe = {
   ],
   similarShoes: ['asics-gel-nimbus-28', 'new-balance-1080-v14', 'hoka-bondi-9'],
   relatedPosts: [
-    { slug: 'adidas-supernova-rise-3-vs-nike-vomero-18-cushion-2026', title: '보메로 18 vs 슈퍼노바 라이즈 3 — 3만원·28g 차이, 스택은 표기와 실측이 다르다' },
+    { slug: 'adidas-supernova-rise-3-vs-nike-vomero-18-cushion-2026', title: '보메로 18 vs 슈퍼노바 라이즈 3 — 3만원·34g 차이, 쿠션 실측은 147 대 140 SA' },
     { slug: 'nike-vomero-18-vs-vomero-plus-max-cushion-2026', title: '보메로 18 vs 보메로 플러스 — 뒤꿈치는 같고 앞발이 다르다' },
     { slug: 'asics-megablast-vs-nike-vomero-18-max-cushion-2026', title: '보메로 18 vs 메가블라스트 — 둘 다 쿠션 10점, 80g 차' },
   ],
